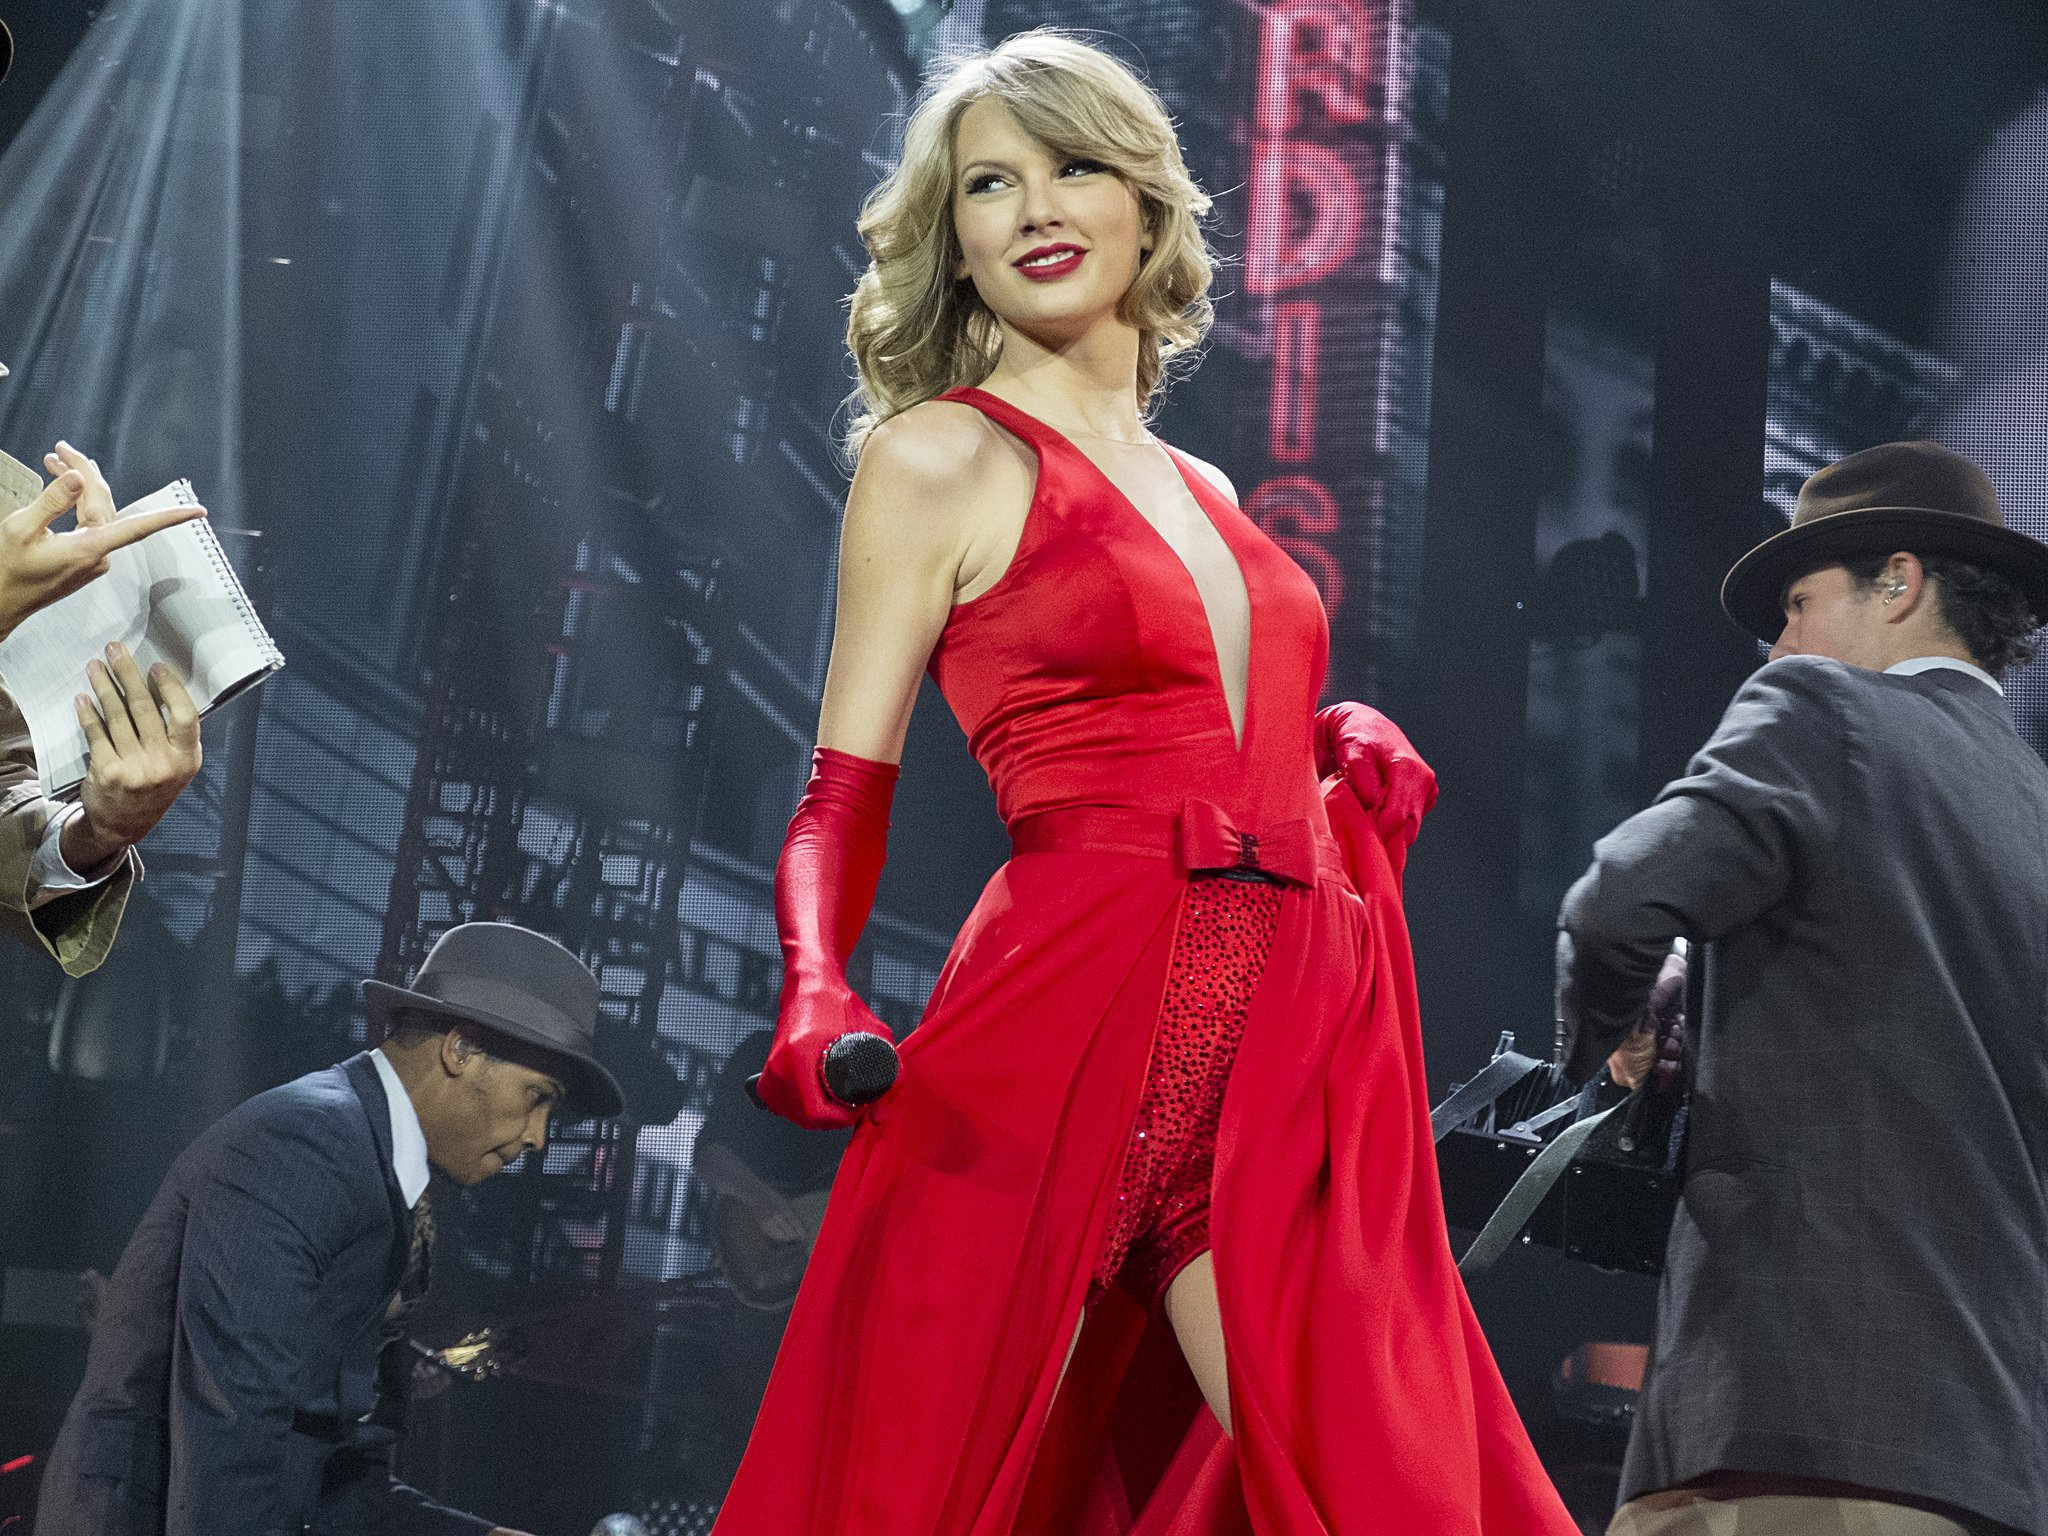
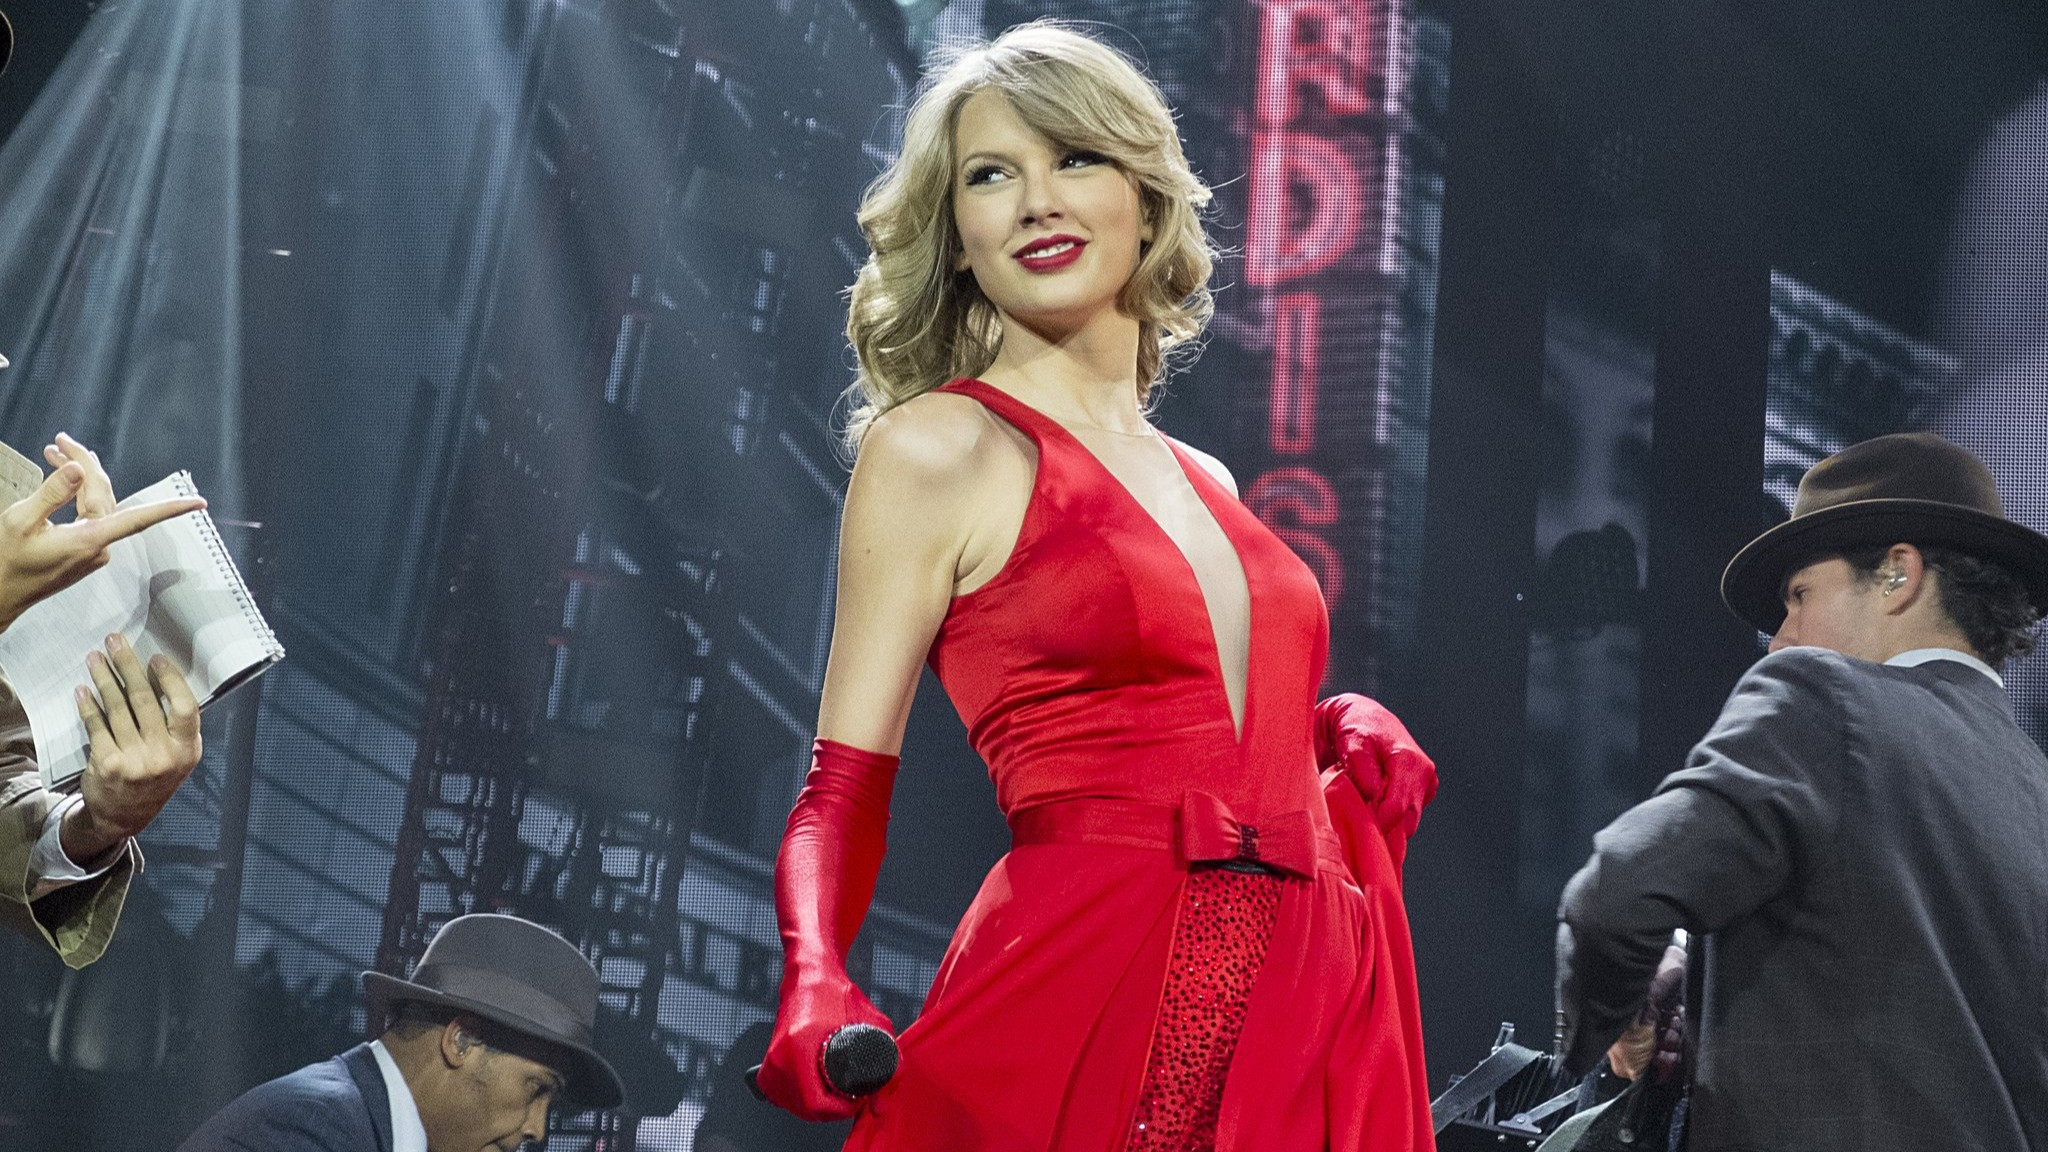
feat: add footer

diff --git a/app/components/Footer.tsx b/app/components/Footer.tsx
@@ -1,0 +1,86 @@
+'use client';
+
+import Link from 'next/link';
+
+export default function Footer() {
+  return (
+    <footer className="w-full bg-[#f5f5f5] text-black border-t border-gray-300 mt-auto antialiased">
+      <div className="max-w-[1400px] mx-auto px-8 py-12 grid grid-cols-1 md:grid-cols-12 gap-10 items-center md:items-start">
+        <div className="md:col-span-4 flex justify-center md:justify-start">
+          <img 
+            src="/cover.jpg" 
+            alt="Magazine Cover" 
+            className="w-full aspect-video object-cover shadow-lg border border-gray-300 rounded-sm hover:shadow-xl transition-shadow duration-300" 
+          />
+        </div>
+
+        <div className="md:col-span-4 flex flex-col h-full justify-between">
+          <div>
+            <h4 className="font-black uppercase text-xs tracking-wider text-gray-900 mb-2">PERSONAL CHARTS</h4>
+            <p className="text-xs text-gray-500 font-medium leading-relaxed mb-4">
+              Personal Charts is an algorithmic music tracking system inspired by the Billboard Hot 100. By using Last.fm scrobble data, the engine computes music performance, simulating real-life chart mechanics through weights, multipliers, and time-decay logic.
+            </p>
+          </div>
+          <div className="border border-gray-300 p-3 rounded bg-white/50 text-[11px] font-bold uppercase tracking-wider text-gray-600 flex flex-col gap-1.5">
+            <div className="flex justify-between border-b border-gray-200 pb-1">
+              <span>Data Pipeline:</span> <span className="font-mono text-black">last.fm</span>
+            </div>
+            <div className="flex justify-between border-b border-gray-200 pb-1">
+              <span>Database:</span> <span className="font-mono text-black">PostgreSQL</span>
+            </div>
+            <div className="flex justify-between">
+              <span>Architecture:</span> <span className="font-mono text-black">Next.js App Router</span>
+            </div>
+          </div>
+        </div>
+
+        <div className="md:col-span-2">
+          <h4 className="font-black uppercase text-xs tracking-wider text-gray-900 mb-4">SITEMAP</h4>
+          <ul className="flex flex-col gap-2.5 text-xs font-bold text-gray-600 uppercase tracking-wide">
+            <li><Link href="/" className="hover:text-[#B30000] transition-colors">Hot 100 Charts</Link></li>
+            <li><span className="text-gray-400 cursor-not-allowed">Top Albums 20</span></li>
+            <li><span className="text-gray-400 cursor-not-allowed">Artist 20</span></li>
+            <li><span className="text-gray-400 cursor-not-allowed">Archive</span></li>
+            <li><span className="text-gray-400 cursor-not-allowed">About</span></li>
+          </ul>
+        </div>
+
+        <div className="md:col-span-2">
+          <h4 className="font-black uppercase text-xs tracking-wider text-gray-900 mb-4">ARCHITECTURE</h4>
+          <ul className="flex flex-col gap-2.5 text-xs font-bold text-gray-400 uppercase tracking-wide font-mono">
+            <li>Next.js v15</li>
+            <li>Tailwind CSS v4</li>
+            <li>Supabase Client</li>
+            <li>Postgres Cluster</li>
+            <li>Last.fm API V2</li>
+          </ul>
+        </div>
+
+      </div>
+
+      <div className="w-full bg-white border-t border-gray-200 py-4 px-8">
+        <div className="max-w-[1400px] mx-auto flex flex-col sm:flex-row justify-between items-center gap-4 text-[10px] font-bold uppercase tracking-widest text-gray-400">
+          <div className="flex items-center gap-3">
+            <img 
+              src="/logo.png" 
+              alt="Personal Charts Logo" 
+              className="h-6 w-auto aspect-square object-cover transition-shadow duration-300" 
+            />
+            <span className="font-medium text-gray-400 border-l border-gray-300 pl-3">
+              © {new Date().getFullYear()} Personal Charts Inc. All Rights Reserved.
+            </span>
+          </div>
+
+          <div className="font-mono font-medium text-gray-400 flex items-center gap-2">
+            <svg viewBox="0 0 76 65" fill="none" xmlns="http://www.w3.org/2000/svg" className="w-3 h-3 text-black">
+              <path d="M37.5274 0L75.0548 65H0L37.5274 0Z" fill="currentColor"/>
+            </svg>
+            DEPLOYED ON VERCEL
+          </div>
+          
+        </div>
+      </div>
+
+    </footer>
+  );
+}

diff --git a/app/layout.tsx b/app/layout.tsx
@@ -2,13 +2,14 @@ import type { Metadata } from "next";
 import { Geist, Geist_Mono } from "next/font/google";
 import "./globals.css";
 import Header from "./components/Header";
+import Footer from "./components/Footer";
 
 const geistSans = Geist({ subsets: ["latin"] });
 const geistMono = Geist_Mono({ subsets: ["latin"] });
 
 export const metadata: Metadata = {
   title: "Personal Hot 100",
-  description: "The official weekly music chart tracking your most played songs on Last.fm.",
+  description: "Personal Charts is an algorithmic music tracking system inspired by the Billboard Hot 100. By using Last.fm scrobble data, the engine computes music performance, simulating real-life chart mechanics through weights, multipliers, and time-decay logic.",
 };
 
 export default function RootLayout({
@@ -16,10 +17,16 @@ export default function RootLayout({
 }: Readonly<{ children: React.ReactNode }>) {
   return (
     <html lang="en">
-      <body className={`${geistSans.className} antialiased bg-white text-black min-h-screen`}>
+      <body className={`${geistSans.className} antialiased bg-white text-black min-h-screen flex flex-col`}>
+        
+        <Header /> 
 
-        <Header />
-        {children}
+        <main className="w-full flex-1 bg-white">
+          {children}
+        </main>
+
+        <Footer /> 
+
       </body>
     </html>
   );